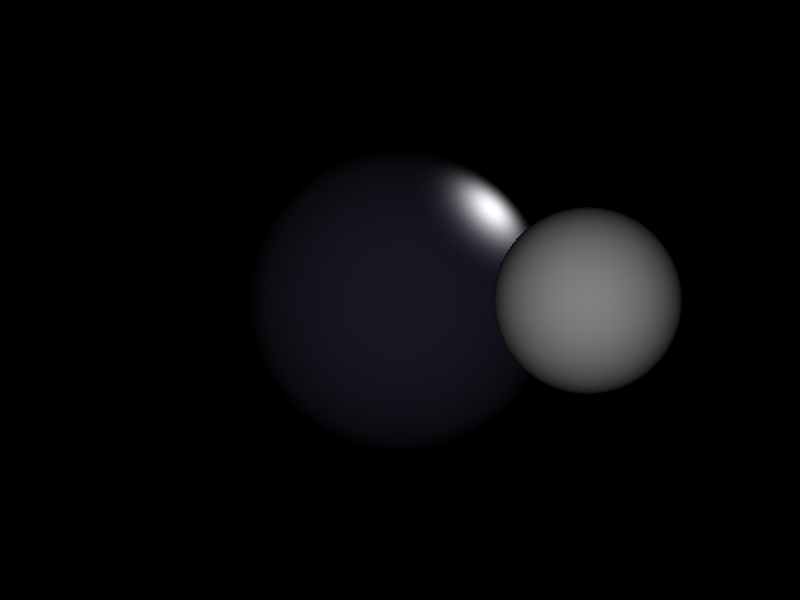
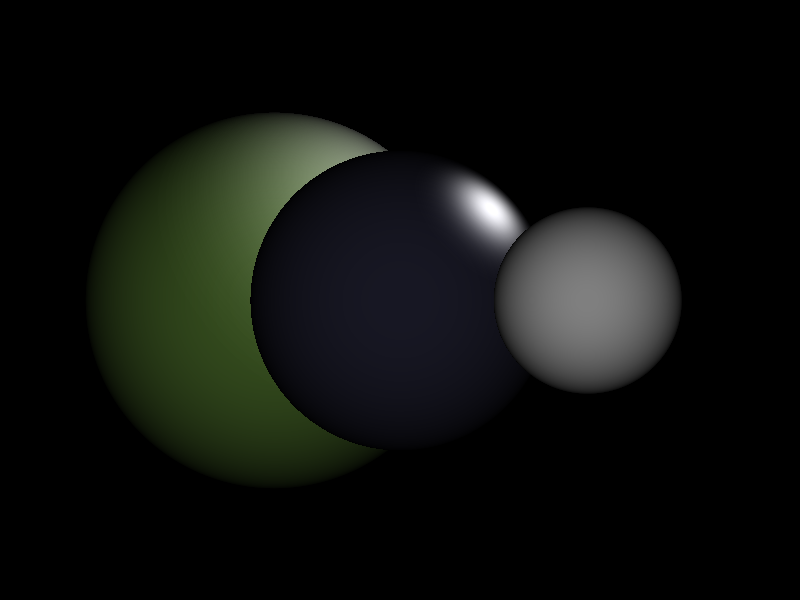
3 spheres

Changed region(s): [[0.0938, 0.18, 0.5, 0.81]]

diff --git a/src/main.rs b/src/main.rs
@@ -1,13 +1,14 @@
 mod renderer;
 
-use image::{Rgb, RgbImage};
+use image::{RgbImage};
 
 use renderer::objects::camera::{Dimensions, Camera, PerspectiveCamera};
 use renderer::objects::ray::{Vector};
-use renderer::objects::material::Material;
+use renderer::objects::material::{Material, Rgb};
 use renderer::objects::model::SphereModel;
 use renderer::scene::Scene;
 use renderer::{Renderer, SimpleRenderer};
+use crate::renderer::objects::material::MaterialBuilder;
 
 fn main() {
     let dims = Dimensions{width: 800, height: 600};
@@ -21,7 +22,13 @@ fn main() {
 
     let renderer = SimpleRenderer::new(Scene::new(vec![
         SphereModel::new(Vector::new(0., 0., 0., 0.), 1., Material::metallic()),
-        SphereModel::new(Vector::new(1., -2., 0., 0.), 0.5, Material::marble())
+        SphereModel::new(Vector::new(1., -2., 0., 0.), 0.5, Material::marble()),
+        SphereModel::new(Vector::new(-1., 2., 0., 0.), 1.5,
+                         MaterialBuilder::default()
+                             .color(Rgb::new(140, 200, 80))
+                             .metallic(Rgb::new(120, 120, 120))
+                             .roughness(Rgb::new(100, 100, 100))
+                             .k(4.).build().unwrap())
     ]));
 
     let mut image = RgbImage::new(dims.width as u32, dims.height as u32);
@@ -29,7 +36,7 @@ fn main() {
         for i in 0..cam.get_dimensions().width{
             let ray = cam.gen_ray(i, j);
             let col = renderer.cast(&ray);
-            image.put_pixel(i as u32, j as u32, Rgb::from([col[0], col[1], col[2]]));
+            image.put_pixel(i as u32, j as u32, image::Rgb::from([col[0], col[1], col[2]]));
         }
     }
     image.save("output.png").unwrap();
